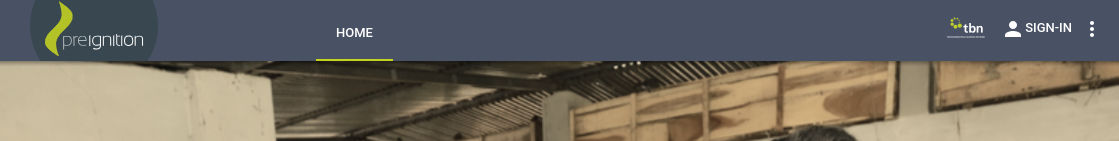
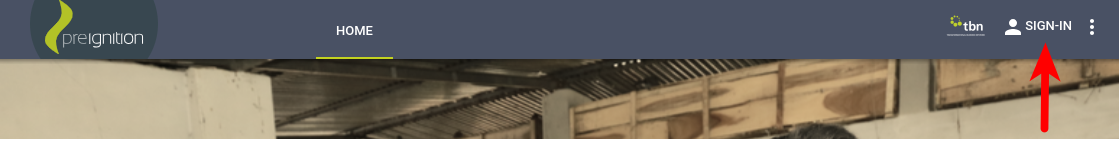
GitBook: [master] 2 pages and 8 assets modified

diff --git a/advanced-users/batches.md b/advanced-users/batches.md
@@ -1,3 +1,7 @@
+---
+description: How to automatically group businesses according to their registration date
+---
+
 # Batches
 
 Batches are a way to automatically group businesses according to their application date. A business can only belong to one batch. When a business apply to a `program`, it is automatically added as a member of the active batch. Only a single batch can be the active batch.
@@ -8,7 +12,7 @@ _Note_: Podio uses the term `cohort` for the same concept. I prefer keeping `coh
 
 Batches are managed by `master` users from the settings page:
 
-> ![image](https://github.com/preignition/user-guide/tree/d93eacc18477f63feed7bd846b2db442421e8078/uploads/9bf0b40d4c0e4a85ae8344c8a139b966/image.png)
+![Main Batch page](../.gitbook/assets/image%20%283%29.png)
 
 The active batch is marked with a `star` on the batch list grid. `Master` users activate other batches by clicking on the `set as active batch` button.
 
@@ -18,17 +22,21 @@ A batch has `label`, `description`, `from` date and `to` date fields.
 
 Users activate edit mode by clicking on a row in the grid:
 
-> ![image](https://github.com/preignition/user-guide/tree/d93eacc18477f63feed7bd846b2db442421e8078/uploads/d9a89e212b3ba8848edbc0711ce36649/image.png)
+![Batch details](../.gitbook/assets/image%20%285%29.png)
 
 If a `From` date is set, the application process will be closed before this date. It is possible to provide a message to be displayed to users trying to apply before application opening:
 
-> ![image](https://github.com/preignition/user-guide/tree/d93eacc18477f63feed7bd846b2db442421e8078/uploads/8d7a26d7c5bb169288414eead7369423/image.png) Similarly, setting a `To` date will prevent businesses to apply after the given date.
+![Example of batch closing date](../.gitbook/assets/image%20%287%29.png)
+
+Similarly, setting a `To` date will prevent businesses to apply after the given date.
+
+
 
 ## Application Process
 
 When a business tries to apply to a program and the current batch is not open, it will be provided with the appropriate notification:
 
-> ![image](https://github.com/preignition/user-guide/tree/d93eacc18477f63feed7bd846b2db442421e8078/uploads/72ebbff1795f9a176dfafcb4db340c9b/image.png) ![image](https://github.com/preignition/user-guide/tree/d93eacc18477f63feed7bd846b2db442421e8078/uploads/dd882ec6b7f217f3fcb28845b44a1ea0/image.png)
+![Message informing users that the application process is currently closed](../.gitbook/assets/image%20%288%29.png)
 
 Businesses can indicate their interest by providing an email address
 

diff --git a/program-users/introduction-to-the-portfolio-page.md b/program-users/introduction-to-the-portfolio-page.md
@@ -6,7 +6,7 @@ description: Introducing portfolio management tools
 
 * Go to [preignition.org](https://preignition.org) and sign-in using your email and password \(alternatively your gmail or facebook account\)
 
-![location of sign-in button](../.gitbook/assets/image%20%283%29.png)
+![location of sign-in button](../.gitbook/assets/image%20%282%29.png)
 
 * `Portfolio` and `Admin` appear as additional options on the menu
 * Select `portfolio`
